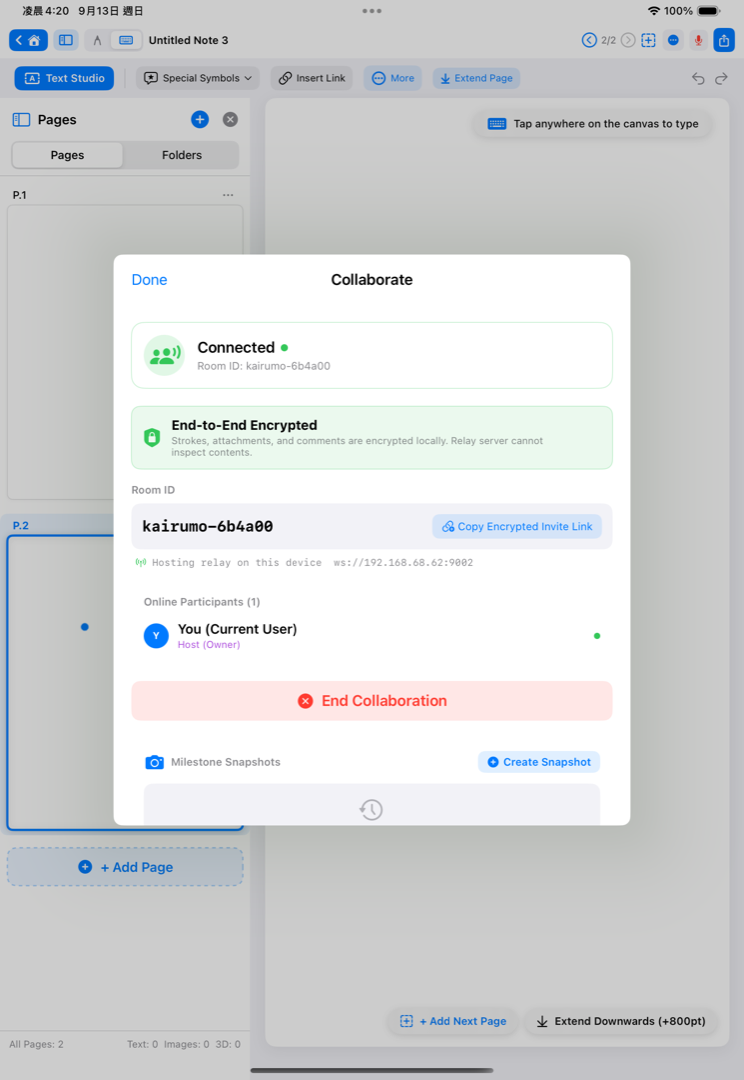
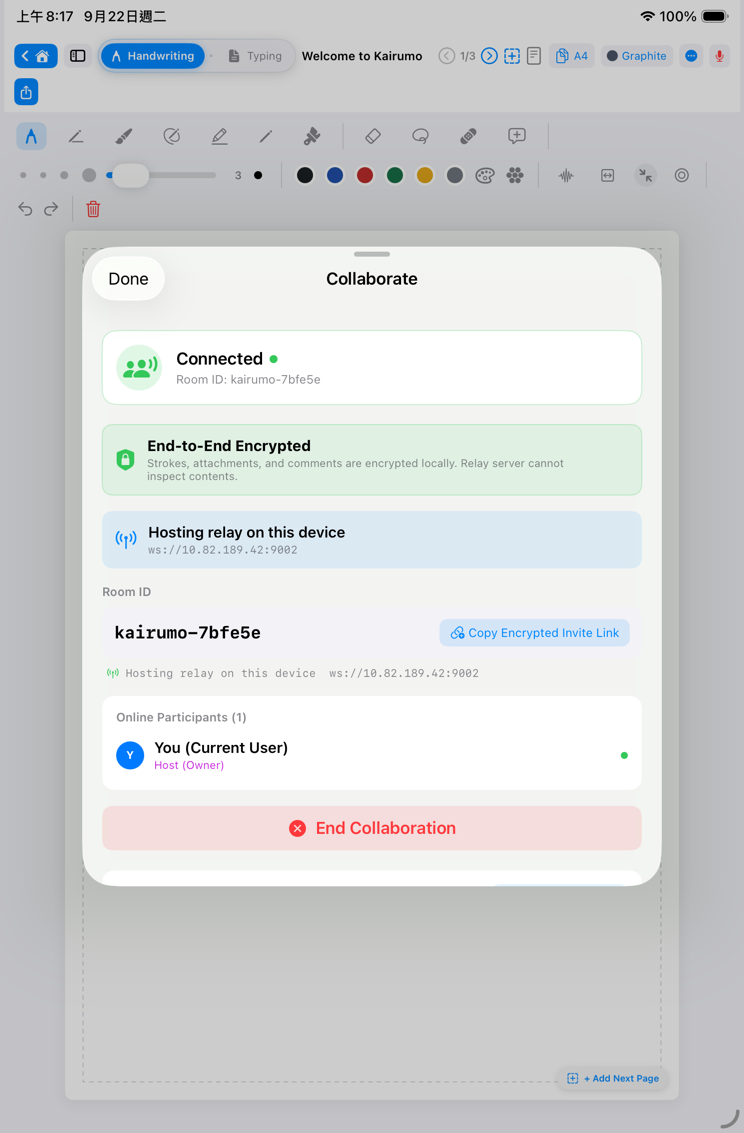
docs(manual): 英文截圖補到 16 張，並拍下匯出預覽與協同連線中
新增 comment、pin_min、export、export_preview、collab_on。
匯出預覽那張是新的 fig2，掛在「匯出、列印與分享」章節 ——
它是昨天做的功能，手冊裡有文字但沒有圖。

**collab_on 那張順帶證實了 ASC 回覆信的內容成立**：畫面上清楚寫著
「Hosting relay on this device · ws://10.82.189.42:9002」，
那正是審查員照信裡的步驟會看到的東西，而且步驟逐字對得上
（Collaborate → Start Collaboration → 顯示中繼位址）。

diff --git a/docs/manual/manual-android.js b/docs/manual/manual-android.js
@@ -412,7 +412,9 @@ window.KAIRUMO_MANUAL = {
         ],
         "tip": "PDF 內的標註座標與原稿一致，用其他 App 打開也不會跑位。",
         "fig": "export",
-        "cap": "匯出與列印選單：匯出 PDF、匯出為圖片、列印筆記、分享筆記"
+        "cap": "匯出與列印選單：匯出 PDF、匯出為圖片、列印筆記、分享筆記",
+        "fig2": "export_preview",
+        "cap2": "匯出預覽：這就是真的會送出去的那份檔案，確認版面之後再選「匯出」"
       },
       {
         "id": "keys",
@@ -908,7 +910,9 @@ window.KAIRUMO_MANUAL = {
         ],
         "tip": "Annotation coordinates in the PDF match the original, so they stay in place in other apps too.",
         "fig": "export",
-        "cap": "Export & Print menu: Export PDF, Export Image, Print Notebook, Share Note"
+        "cap": "Export & Print menu: Export PDF, Export Image, Print Notebook, Share Note",
+        "fig2": "export_preview",
+        "cap2": "Export preview: this is the actual file that will be sent — check the layout, then choose “Export”"
       },
       {
         "id": "keys",
@@ -1397,7 +1401,9 @@ window.KAIRUMO_MANUAL = {
         ],
         "tip": "PDF 内的批注坐标与原稿一致，用其他 App 打开也不会跑位。",
         "fig": "export",
-        "cap": "导出与打印菜单：导出 PDF、导出为图片、打印笔记、分享笔记"
+        "cap": "导出与打印菜单：导出 PDF、导出为图片、打印笔记、分享笔记",
+        "fig2": "export_preview",
+        "cap2": "导出预览：这就是真的会送出去的那份文件，确认版面之后再选「导出」"
       },
       {
         "id": "keys",
@@ -1886,7 +1892,9 @@ window.KAIRUMO_MANUAL = {
         ],
         "tip": "PDF 内の注釈座標は原本と一致するため、他のアプリで開いてもずれません。",
         "fig": "export",
-        "cap": "書き出しメニュー：PDF、画像、印刷、ノートを共有"
+        "cap": "書き出しメニュー：PDF、画像、印刷、ノートを共有",
+        "fig2": "export_preview",
+        "cap2": "書き出しプレビュー：実際に書き出されるファイルそのものです。レイアウトを確認してから「書き出す」を選びます"
       },
       {
         "id": "keys",
@@ -2375,7 +2383,9 @@ window.KAIRUMO_MANUAL = {
         ],
         "tip": "PDF 안의 주석 좌표가 원본과 같아 다른 앱에서 열어도 위치가 틀어지지 않습니다.",
         "fig": "export",
-        "cap": "내보내기 메뉴: PDF, 이미지, 인쇄, 노트 공유"
+        "cap": "내보내기 메뉴: PDF, 이미지, 인쇄, 노트 공유",
+        "fig2": "export_preview",
+        "cap2": "내보내기 미리보기: 실제로 내보낼 파일 그 자체입니다. 레이아웃을 확인한 뒤 “내보내기”를 선택하세요"
       },
       {
         "id": "keys",
@@ -2864,7 +2874,9 @@ window.KAIRUMO_MANUAL = {
         ],
         "tip": "พิกัดของคำอธิบายใน PDF ตรงกับต้นฉบับ เปิดในแอปอื่นก็ไม่เคลื่อน",
         "fig": "export",
-        "cap": "เมนูส่งออก: PDF รูปภาพ พิมพ์ และแชร์โน้ต"
+        "cap": "เมนูส่งออก: PDF รูปภาพ พิมพ์ และแชร์โน้ต",
+        "fig2": "export_preview",
+        "cap2": "ตัวอย่างการส่งออก: นี่คือไฟล์จริงที่จะถูกส่งออก ตรวจเลย์เอาต์แล้วเลือก “ส่งออก”"
       },
       {
         "id": "keys",

diff --git a/docs/manual/manual-apple.js b/docs/manual/manual-apple.js
@@ -412,7 +412,9 @@ window.KAIRUMO_MANUAL = {
         ],
         "tip": "PDF 內的標註座標與原稿一致，用其他 App 打開也不會跑位。",
         "fig": "export",
-        "cap": "匯出與列印選單：匯出 PDF、匯出為圖片、列印筆記、分享筆記"
+        "cap": "匯出與列印選單：匯出 PDF、匯出為圖片、列印筆記、分享筆記",
+        "fig2": "export_preview",
+        "cap2": "匯出預覽：這就是真的會送出去的那份檔案，確認版面之後再選「匯出」"
       },
       {
         "id": "keys",
@@ -904,7 +906,9 @@ window.KAIRUMO_MANUAL = {
         ],
         "tip": "Annotation coordinates in the PDF match the original, so they stay in place in other apps too.",
         "fig": "export",
-        "cap": "Export & Print menu: Export PDF, Export Image, Print Notebook, Share Note"
+        "cap": "Export & Print menu: Export PDF, Export Image, Print Notebook, Share Note",
+        "fig2": "export_preview",
+        "cap2": "Export preview: this is the actual file that will be sent — check the layout, then choose “Export”"
       },
       {
         "id": "keys",
@@ -1389,7 +1393,9 @@ window.KAIRUMO_MANUAL = {
         ],
         "tip": "PDF 内的批注坐标与原稿一致，用其他 App 打开也不会跑位。",
         "fig": "export",
-        "cap": "导出与打印菜单：导出 PDF、导出为图片、打印笔记、分享笔记"
+        "cap": "导出与打印菜单：导出 PDF、导出为图片、打印笔记、分享笔记",
+        "fig2": "export_preview",
+        "cap2": "导出预览：这就是真的会送出去的那份文件，确认版面之后再选「导出」"
       },
       {
         "id": "keys",
@@ -1874,7 +1880,9 @@ window.KAIRUMO_MANUAL = {
         ],
         "tip": "PDF 内の注釈座標は原本と一致するため、他のアプリで開いてもずれません。",
         "fig": "export",
-        "cap": "書き出しメニュー：PDF、画像、印刷、ノートを共有"
+        "cap": "書き出しメニュー：PDF、画像、印刷、ノートを共有",
+        "fig2": "export_preview",
+        "cap2": "書き出しプレビュー：実際に書き出されるファイルそのものです。レイアウトを確認してから「書き出す」を選びます"
       },
       {
         "id": "keys",
@@ -2359,7 +2367,9 @@ window.KAIRUMO_MANUAL = {
         ],
         "tip": "PDF 안의 주석 좌표가 원본과 같아 다른 앱에서 열어도 위치가 틀어지지 않습니다.",
         "fig": "export",
-        "cap": "내보내기 메뉴: PDF, 이미지, 인쇄, 노트 공유"
+        "cap": "내보내기 메뉴: PDF, 이미지, 인쇄, 노트 공유",
+        "fig2": "export_preview",
+        "cap2": "내보내기 미리보기: 실제로 내보낼 파일 그 자체입니다. 레이아웃을 확인한 뒤 “내보내기”를 선택하세요"
       },
       {
         "id": "keys",
@@ -2844,7 +2854,9 @@ window.KAIRUMO_MANUAL = {
         ],
         "tip": "พิกัดของคำอธิบายใน PDF ตรงกับต้นฉบับ เปิดในแอปอื่นก็ไม่เคลื่อน",
         "fig": "export",
-        "cap": "เมนูส่งออก: PDF รูปภาพ พิมพ์ และแชร์โน้ต"
+        "cap": "เมนูส่งออก: PDF รูปภาพ พิมพ์ และแชร์โน้ต",
+        "fig2": "export_preview",
+        "cap2": "ตัวอย่างการส่งออก: นี่คือไฟล์จริงที่จะถูกส่งออก ตรวจเลย์เอาต์แล้วเลือก “ส่งออก”"
       },
       {
         "id": "keys",

diff --git a/docs/manual/manual.js b/docs/manual/manual.js
@@ -416,7 +416,9 @@ window.KAIRUMO_MANUAL = {
         ],
         "tip": "PDF 內的標註座標與原稿一致，用其他 App 打開也不會跑位。",
         "fig": "export",
-        "cap": "匯出與列印選單：匯出 PDF、匯出為圖片、列印筆記、分享筆記"
+        "cap": "匯出與列印選單：匯出 PDF、匯出為圖片、列印筆記、分享筆記",
+        "fig2": "export_preview",
+        "cap2": "匯出預覽：這就是真的會送出去的那份檔案，確認版面之後再選「匯出」"
       },
       {
         "id": "keys",
@@ -911,7 +913,9 @@ window.KAIRUMO_MANUAL = {
         ],
         "tip": "Annotation coordinates in the PDF match the original, so they stay in place in other apps too.",
         "fig": "export",
-        "cap": "Export & Print menu: Export PDF, Export Image, Print Notebook, Share Note"
+        "cap": "Export & Print menu: Export PDF, Export Image, Print Notebook, Share Note",
+        "fig2": "export_preview",
+        "cap2": "Export preview: this is the actual file that will be sent — check the layout, then choose “Export”"
       },
       {
         "id": "keys",
@@ -1399,7 +1403,9 @@ window.KAIRUMO_MANUAL = {
         ],
         "tip": "PDF 内的批注坐标与原稿一致，用其他 App 打开也不会跑位。",
         "fig": "export",
-        "cap": "导出与打印菜单：导出 PDF、导出为图片、打印笔记、分享笔记"
+        "cap": "导出与打印菜单：导出 PDF、导出为图片、打印笔记、分享笔记",
+        "fig2": "export_preview",
+        "cap2": "导出预览：这就是真的会送出去的那份文件，确认版面之后再选「导出」"
       },
       {
         "id": "keys",
@@ -1887,7 +1893,9 @@ window.KAIRUMO_MANUAL = {
         ],
         "tip": "PDF 内の注釈座標は原本と一致するため、他のアプリで開いてもずれません。",
         "fig": "export",
-        "cap": "書き出しメニュー：PDF、画像、印刷、ノートを共有"
+        "cap": "書き出しメニュー：PDF、画像、印刷、ノートを共有",
+        "fig2": "export_preview",
+        "cap2": "書き出しプレビュー：実際に書き出されるファイルそのものです。レイアウトを確認してから「書き出す」を選びます"
       },
       {
         "id": "keys",
@@ -2375,7 +2383,9 @@ window.KAIRUMO_MANUAL = {
         ],
         "tip": "PDF 안의 주석 좌표가 원본과 같아 다른 앱에서 열어도 위치가 틀어지지 않습니다.",
         "fig": "export",
-        "cap": "내보내기 메뉴: PDF, 이미지, 인쇄, 노트 공유"
+        "cap": "내보내기 메뉴: PDF, 이미지, 인쇄, 노트 공유",
+        "fig2": "export_preview",
+        "cap2": "내보내기 미리보기: 실제로 내보낼 파일 그 자체입니다. 레이아웃을 확인한 뒤 “내보내기”를 선택하세요"
       },
       {
         "id": "keys",
@@ -2863,7 +2873,9 @@ window.KAIRUMO_MANUAL = {
         ],
         "tip": "พิกัดของคำอธิบายใน PDF ตรงกับต้นฉบับ เปิดในแอปอื่นก็ไม่เคลื่อน",
         "fig": "export",
-        "cap": "เมนูส่งออก: PDF รูปภาพ พิมพ์ และแชร์โน้ต"
+        "cap": "เมนูส่งออก: PDF รูปภาพ พิมพ์ และแชร์โน้ต",
+        "fig2": "export_preview",
+        "cap2": "ตัวอย่างการส่งออก: นี่คือไฟล์จริงที่จะถูกส่งออก ตรวจเลย์เอาต์แล้วเลือก “ส่งออก”"
       },
       {
         "id": "keys",
